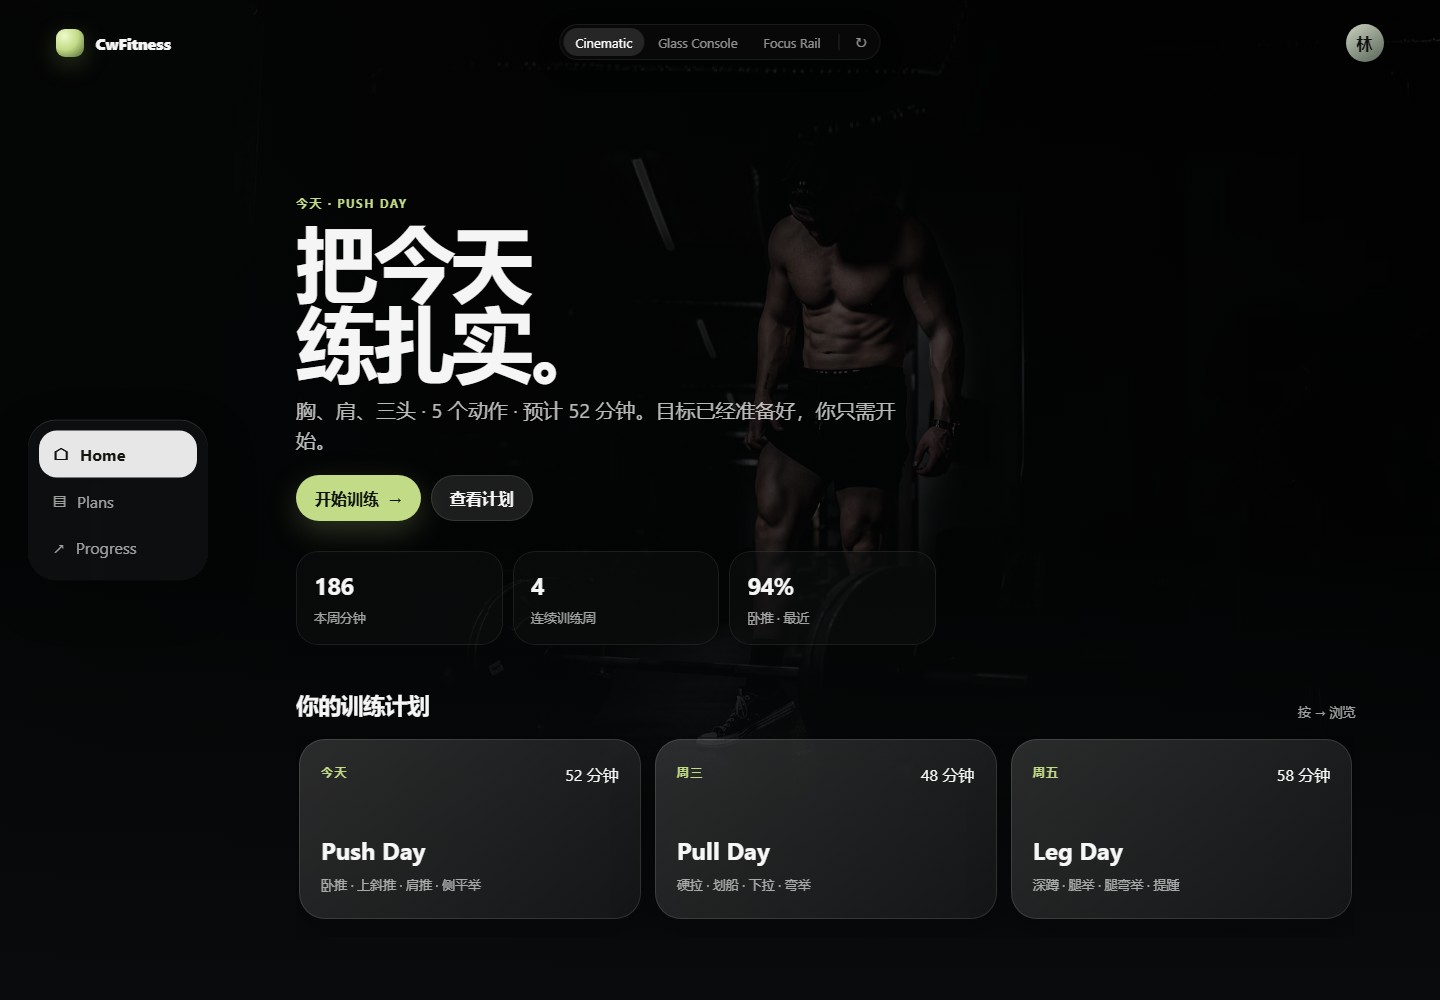
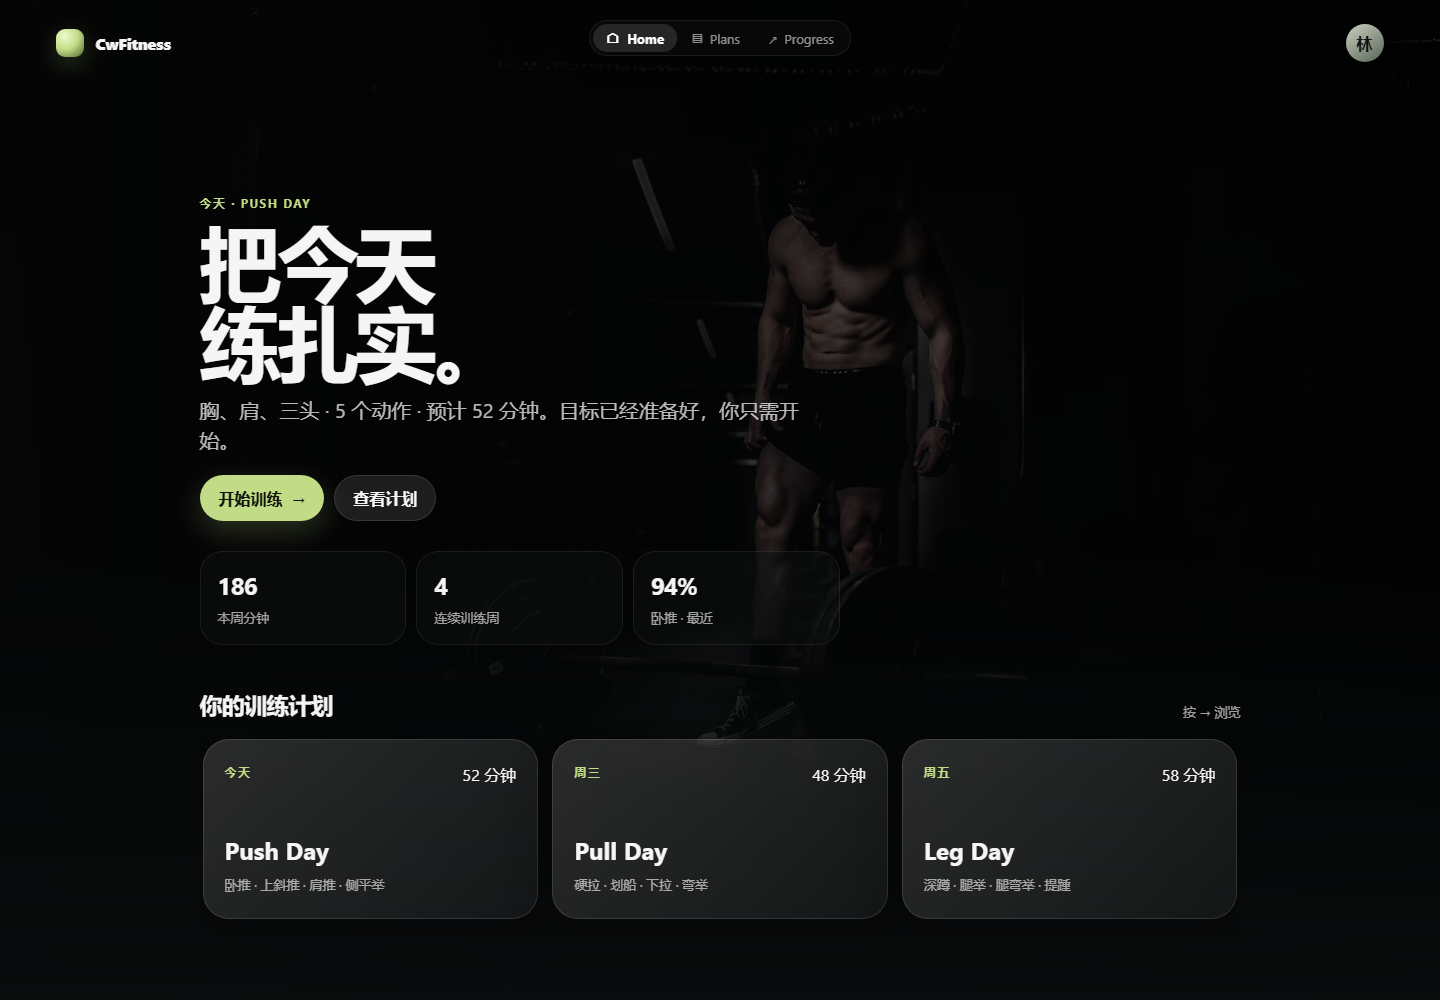
prototype: promote cinematic navigation

diff --git a/prototypes/cwfitness-flow/index.html b/prototypes/cwfitness-flow/index.html
@@ -98,10 +98,10 @@
     @keyframes view-in { from { opacity: 0; transform: translateY(8px); } to { opacity: 1; transform: translateY(0); } }
 
     .cinematic { --accent: #c2db86; }
-    .cinematic .cinematic-nav { position: fixed; z-index: 10; top: 50%; left: 28px; transform: translateY(-50%); width: 180px; padding: 11px; border-radius: 28px; }
-    .cinematic .nav-btn { width: 100%; display: flex; align-items: center; gap: 11px; padding: 12px 14px; border-radius: 18px; color: var(--muted); background: transparent; text-align: left; }
-    .cinematic .nav-btn[data-active] { color: #121510; background: rgba(255,255,255,.9); font-weight: 750; }
-    .cinematic-main { padding: min(12vh,120px) clamp(28px,6vw,94px) 120px clamp(240px,21vw,330px); }
+    .cinematic .cinematic-nav { position: fixed; z-index: 10; top: 20px; left: 50%; transform: translateX(-50%); display: flex; gap: 2px; width: auto; padding: 4px; border-radius: 999px; background: rgba(10,10,10,.82); -webkit-backdrop-filter: blur(12px) saturate(1.4); backdrop-filter: blur(12px) saturate(1.4); box-shadow: inset 0 0 0 1px rgba(255,255,255,.08),0 8px 24px rgba(0,0,0,.24),0 2px 6px rgba(0,0,0,.12); }
+    .cinematic .nav-btn { width: auto; height: 28px; display: flex; align-items: center; gap: 7px; padding: 0 13px; border-radius: 999px; color: rgba(255,255,255,.55); background: transparent; text-align: center; font-size: 13px; }
+    .cinematic .nav-btn[data-active] { color: #fff; background: rgba(255,255,255,.12); font-weight: 700; }
+    .cinematic-main { max-width: 1210px; margin: 0 auto; padding: min(12vh,120px) clamp(28px,6vw,94px) 120px; }
     .cinematic-hero { min-height: 47vh; display: flex; flex-direction: column; justify-content: flex-end; max-width: 820px; }
     .stats-strip { display: grid; grid-template-columns: repeat(3,minmax(120px,1fr)); gap: 10px; max-width: 640px; margin-top: 30px; }
     .stat { padding: 18px; border-radius: 22px; background: rgba(15,17,18,.46); box-shadow: inset 0 0 0 1px rgba(255,255,255,.08); }
@@ -276,8 +276,8 @@
       .set-row:hover { background-color: rgba(255,255,255,.09); }
     }
     @media (max-width: 860px) {
-      .cinematic .cinematic-nav { top: auto; right: 18px; bottom: 76px; left: 18px; width: auto; transform: none; display: flex; border-radius: 999px; }
-      .cinematic .cinematic-nav .nav-btn { justify-content: center; padding: 11px 8px; }
+      .cinematic .cinematic-nav { top: 18px; right: auto; bottom: auto; left: 50%; width: auto; transform: translateX(-50%); display: flex; border-radius: 999px; }
+      .cinematic .cinematic-nav .nav-btn { justify-content: center; padding: 0 10px; }
       .cinematic .cinematic-nav .nav-btn span:first-child { display: none; }
       .cinematic-main { padding: 70px 22px 150px; }
       .cinematic-hero { min-height: 50vh; }
@@ -316,14 +316,6 @@
 <body>
   <main id="stage"></main>
 
-  <nav class="proto-picker" data-position="top" aria-label="Prototype variants">
-    <span class="proto-picker-highlight" aria-hidden="true"></span>
-    <button class="proto-picker-item" data-active aria-current="true">Cinematic</button>
-    <button class="proto-picker-item">Glass Console</button>
-    <button class="proto-picker-item">Focus Rail</button>
-    <span class="proto-picker-divider" aria-hidden="true"></span>
-    <button class="proto-picker-item proto-picker-replay" aria-label="Replay animation (R)">↻</button>
-  </nav>
 
   <template id="variant-cinematic">
     <div class="app cinematic" data-app>
@@ -355,91 +347,21 @@
     </div>
   </template>
 
-  <template id="variant-console">
-    <div class="app console" data-app>
-      <header class="topbar"><div class="brand"><span class="brand-mark"></span>CwFitness</div><button class="avatar" data-settings aria-label="打开设置">林</button></header>
-      <div class="console-shell">
-        <nav class="console-side glass" aria-label="主导航">
-          <div class="console-profile"><span class="avatar">林</span><div><strong>林默</strong><div class="meta">晚上好</div></div></div>
-          <button class="nav-btn" data-nav="home" data-active>⌂　Home</button>
-          <button class="nav-btn" data-nav="plans">▤　Plans</button>
-          <button class="nav-btn" data-nav="progress">↗　Progress</button>
-        </nav>
-        <section class="view console-main" data-view="home" data-visible>
-          <div class="console-hero">
-            <p class="eyebrow">今日训练</p><h1>Push Day</h1><p class="lede">下一组：杠铃卧推 · 3 × 10 · 60.0 kg</p>
-            <div class="actions"><button class="btn btn-primary" data-start>开始训练</button><button class="btn btn-secondary" data-nav="plans">编辑计划</button></div>
-          </div>
-          <div class="console-grid">
-            <article class="console-card"><p class="eyebrow">训练时间</p><h2><span class="value">186</span> 分钟</h2><div class="bars" aria-label="最近七天训练分钟"><i style="--h:24%"></i><i style="--h:70%"></i><i style="--h:32%"></i><i style="--h:88%"></i><i style="--h:18%"></i><i style="--h:62%"></i><i style="--h:42%"></i></div></article>
-            <article class="console-card"><p class="eyebrow">进阶提示</p><h3>卧推稳定超额</h3><p class="meta">最近 3 次均达标，可考虑增加重量。</p></article>
-            <article class="console-card"><p class="eyebrow">下一训练</p><h3>Pull Day</h3><p class="meta">周三 · 4 个动作</p><button class="btn btn-secondary" data-toast="已打开 Pull Day 预览">预览</button></article>
-          </div>
-        </section>
-        <section class="view console-main content-page" data-view="plans"></section>
-        <section class="view console-main content-page" data-view="progress"></section>
-      </div>
-    </div>
-  </template>
 
-  <template id="variant-focus">
-    <div class="app focus" data-app>
-      <header class="topbar"><div class="brand"><span class="brand-mark"></span>CwFitness</div><nav class="focus-nav" aria-label="主导航"><button class="nav-btn" data-nav="home" data-active>Home</button><button class="nav-btn" data-nav="plans">Plans</button><button class="nav-btn" data-nav="progress">Progress</button></nav><button class="avatar" data-settings aria-label="打开设置">林</button></header>
-      <section class="view" data-view="home" data-visible>
-        <div class="focus-main">
-          <div class="focus-copy"><p class="eyebrow">9 月 9 日 · 今日训练</p><h1>选择，然后<br>专注完成。</h1><p class="lede">不追逐综合分数。每一次训练，只和这个动作原本的目标比较。</p></div>
-          <div class="focus-rail">
-            <button class="rail-card" data-featured data-start><span class="eyebrow">建议 · 今天</span><h3>Push Day</h3><p class="meta">5 个动作 · 预计 52 分钟</p></button>
-            <button class="rail-card" data-toast="Pull Day 已选中"><span class="eyebrow">周三</span><h3>Pull Day</h3><p class="meta">4 个动作 · 预计 48 分钟</p></button>
-            <button class="rail-card" data-toast="Leg Day 已选中"><span class="eyebrow">周五</span><h3>Leg Day</h3><p class="meta">5 个动作 · 预计 58 分钟</p></button>
-          </div>
-        </div>
-      </section>
-      <section class="view content-page" data-view="plans"></section>
-      <section class="view content-page" data-view="progress"></section>
-    </div>
-  </template>
 
   <script>
     const stage = document.getElementById('stage');
-    const picker = document.querySelector('.proto-picker');
-    const highlight = picker.querySelector('.proto-picker-highlight');
-    const items = [...picker.querySelectorAll('.proto-picker-item:not(.proto-picker-replay)')];
-    const replay = picker.querySelector('.proto-picker-replay');
-    const templateIds = ['variant-cinematic','variant-console','variant-focus'];
-    let current = 0;
     let elapsed = 0;
     let timerId = null;
     let paused = false;
 
-    function moveHighlight() {
-      const el = items[current];
-      highlight.style.width = el.offsetWidth + 'px';
-      highlight.style.transform = `translateX(${el.offsetLeft}px)`;
-    }
-
-    function mount(i) {
+    function mount() {
       clearInterval(timerId);
       stage.innerHTML = '';
       requestAnimationFrame(() => {
-        stage.append(document.getElementById(templateIds[i]).content.cloneNode(true));
+        stage.append(document.getElementById('variant-cinematic').content.cloneNode(true));
         hydrateViews();
       });
-    }
-
-    function setActive(i) {
-      if (i < 0 || i >= templateIds.length) return;
-      current = i;
-      items.forEach((el, j) => {
-        el.toggleAttribute('data-active', j === i);
-        if (j === i) el.setAttribute('aria-current', 'true');
-        else el.removeAttribute('aria-current');
-      });
-      moveHighlight();
-      const url = new URL(location);
-      url.searchParams.set('v', i + 1);
-      history.replaceState(null, '', url);
-      mount(i);
     }
 
     function plansMarkup() {
@@ -518,10 +440,6 @@
       setTimeout(() => toast.remove(), 1900);
     }
 
-    items.forEach((el, i) => el.addEventListener('click', () => setActive(i)));
-    replay.addEventListener('click', () => mount(current));
-    window.addEventListener('resize', moveHighlight);
-
     document.addEventListener('click', (event) => {
       const nav = event.target.closest('[data-nav]');
       if (nav) {
@@ -562,20 +480,10 @@
 
     document.addEventListener('keydown', (e) => {
       if (/^(INPUT|TEXTAREA|SELECT)$/.test(e.target.tagName) || e.target.isContentEditable) return;
-      if (e.metaKey || e.ctrlKey || e.altKey) return;
-      if (e.key === 'Escape') {
-        document.querySelector('.settings-layer, .result-layer')?.remove();
-        return;
-      }
-      const num = parseInt(e.key, 10);
-      if (num >= 1 && num <= templateIds.length) setActive(num - 1);
-      else if (e.key === 'ArrowRight') setActive((current + 1) % templateIds.length);
-      else if (e.key === 'ArrowLeft') setActive((current - 1 + templateIds.length) % templateIds.length);
-      else if (e.key === 'r' || e.key === 'R') mount(current);
+      if (e.key === 'Escape') document.querySelector('.settings-layer, .result-layer')?.remove();
     });
 
-    setActive((parseInt(new URLSearchParams(location.search).get('v'), 10) || 1) - 1);
-    requestAnimationFrame(() => requestAnimationFrame(() => picker.setAttribute('data-ready', '')));
+    mount();
   </script>
 </body>
 </html>
